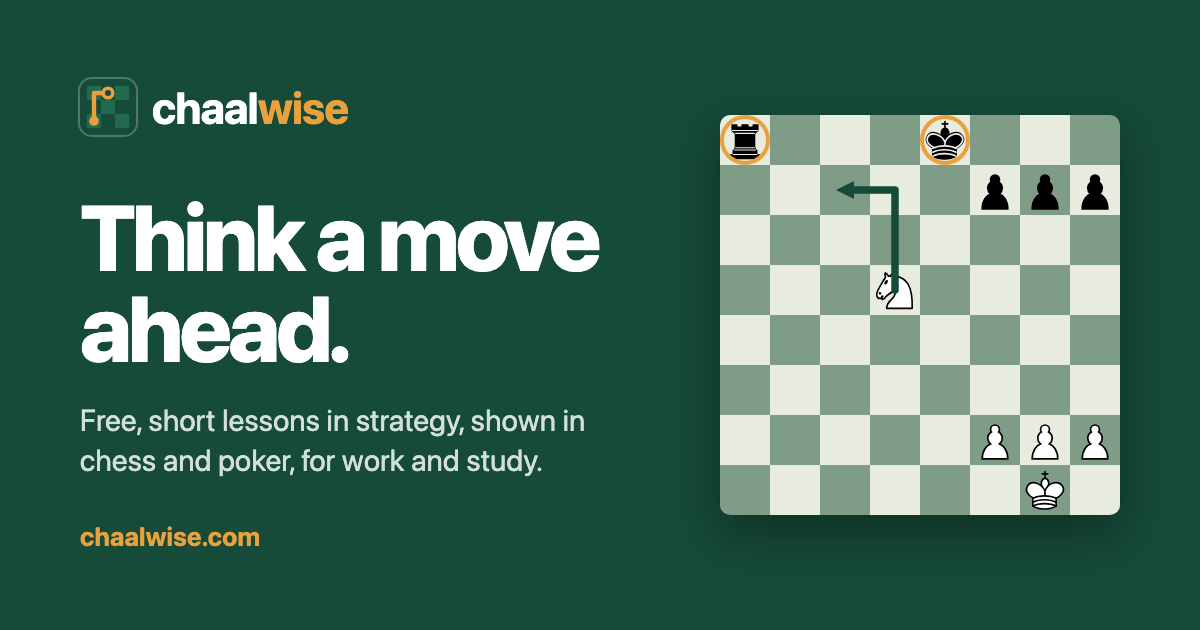
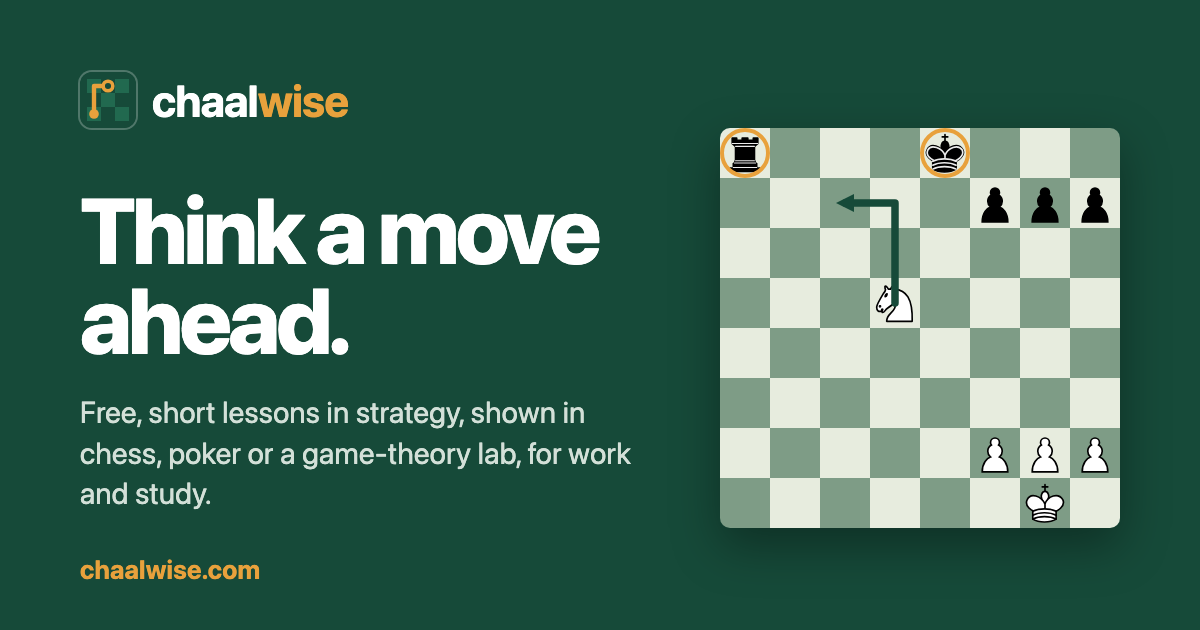
Share card says chess, poker or a game-theory lab; pot-odds title fits in search (#84)
- The share card (og.png) said "chess and poker"; it now says "chess, poker
  or a game-theory lab", as the home title, description and manifest have
  since #83. Regenerated with scripts/og-image.mjs, the way the repo makes it.
- The pot-odds entry's search title rendered at 69 characters. It is now
  "Pot odds in poker: how to work out when to call", 59 with " · Chaalwise",
  and keeps the query wording.
- The test #83 added for lab titles (62 rendered at most) now covers every
  reference entry with a title of its own; pot odds was the only one over.

diff --git a/apps/web/test/poker-search.test.ts b/apps/web/test/poker-search.test.ts
@@ -82,9 +82,7 @@ describe('titles in the words people search', () => {
       'Poker hand rankings: what beats what (with chart) · Chaalwise',
     );
     expect(title('/reference/poker/outs/')).toBe('Outs in poker: what they are and how to count them · Chaalwise');
-    expect(title('/reference/poker/pot-odds/')).toBe(
-      'Pot odds in poker: how to work them out, and when to call · Chaalwise',
-    );
+    expect(title('/reference/poker/pot-odds/')).toBe('Pot odds in poker: how to work out when to call · Chaalwise');
     expect(title('/reference/poker/equity/')).toBe('Poker equity: what it is and how to work it out · Chaalwise');
     expect(title('/reference/poker/position/')).toBe('Position in poker: why acting last is an advantage · Chaalwise');
     expect(title('/reference/poker/expected-value/')).toBe(

diff --git a/apps/web/test/seo.test.ts b/apps/web/test/seo.test.ts
@@ -92,12 +92,12 @@ describe('what search engines are told', () => {
     expect(JSON.parse(read('manifest.webmanifest')).description).toContain(words);
   });
 
-  it('keeps a lab entry’s own search title short enough to show in full, with the detail in its description', () => {
+  it('keeps a reference entry’s own search title short enough to show in full, with the detail in its description', () => {
     const own = indexable
-      .filter((p) => p.startsWith('/reference/labs/'))
+      .filter((p) => p.startsWith('/reference/'))
       .map((p) => html(p).match(/<title>([^<]*)<\/title>/)![1]!)
       .filter((t) => !/ reference · Chaalwise$/.test(t));
-    expect(own.length).toBeGreaterThan(5);
+    expect(own.length).toBeGreaterThan(10);
     expect(own.filter((t) => t.length > 62)).toEqual([]);
   });
 

diff --git a/apps/web/src/content/reference/poker/pot-odds.md b/apps/web/src/content/reference/poker/pot-odds.md
@@ -1,6 +1,6 @@
 ---
 term: 'Pot odds'
-title: 'Pot odds in poker: how to work them out, and when to call'
+title: 'Pot odds in poker: how to work out when to call'
 game: 'poker'
 kind: 'odds'
 level: 'beginner'
